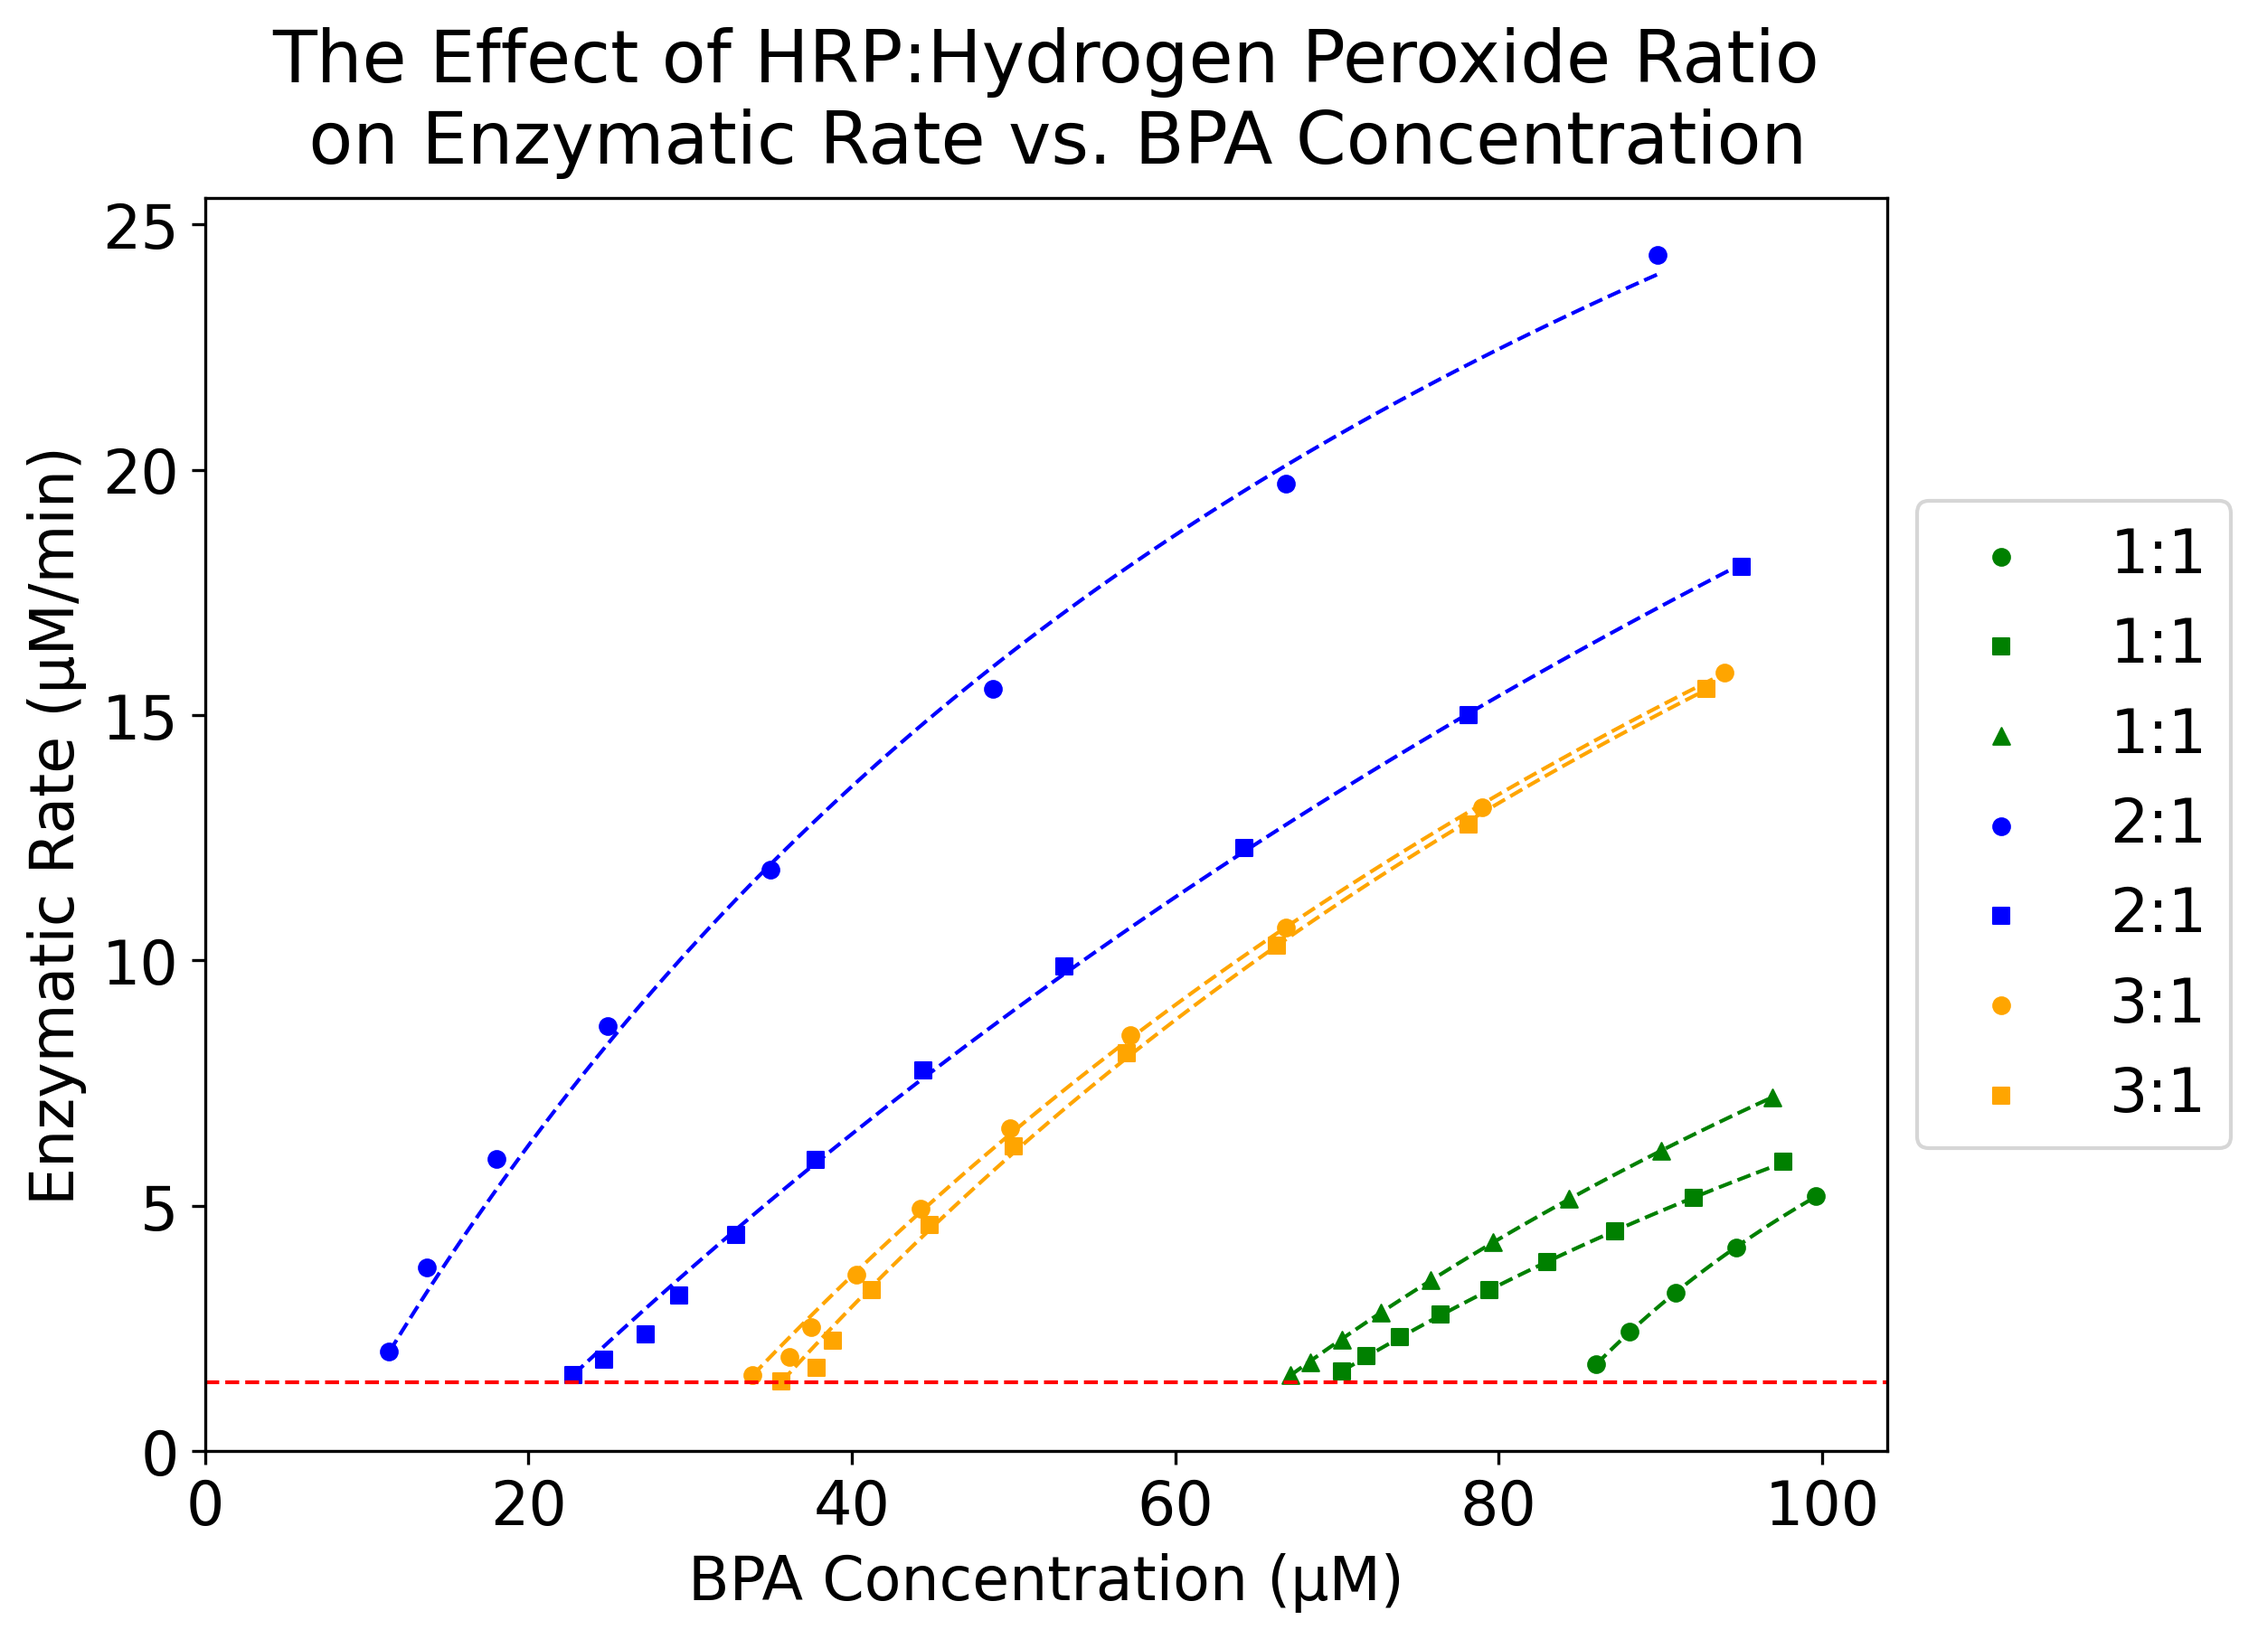
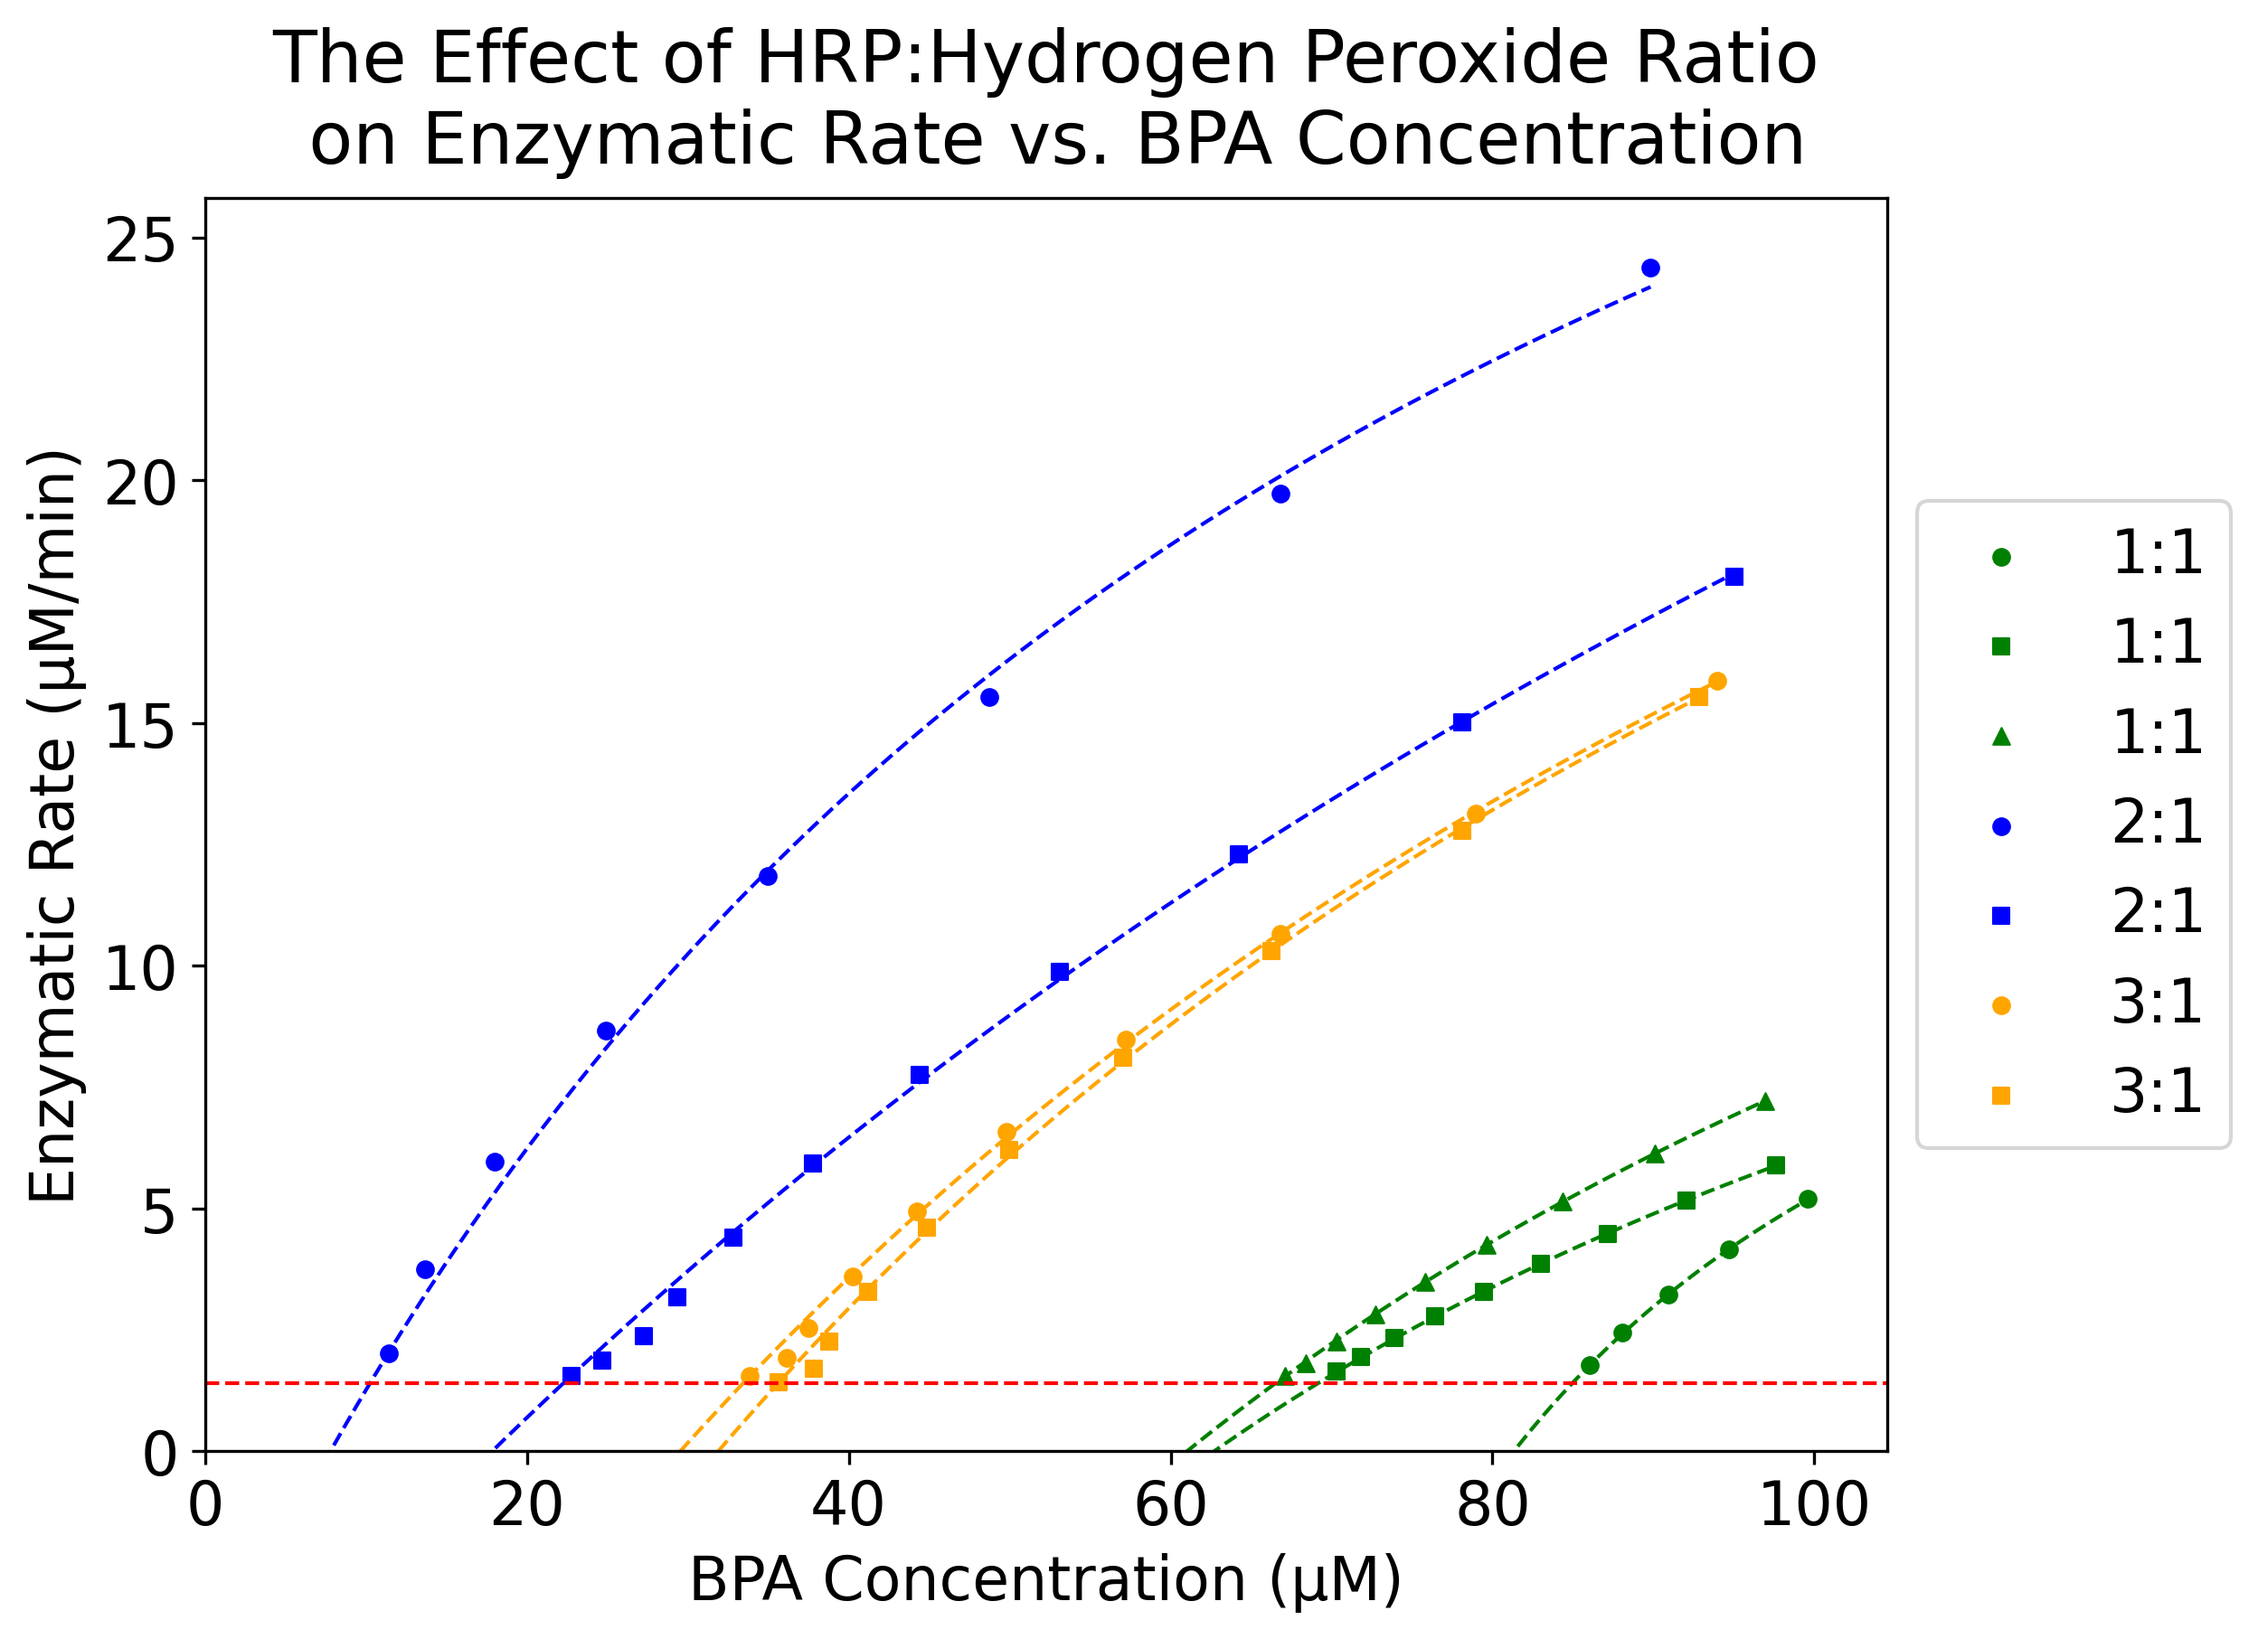
extended fit curves

diff --git a/functions/get_michaelis_menten_values.py b/functions/get_michaelis_menten_values.py
@@ -1,8 +1,27 @@
 from scipy.optimize import curve_fit
+import numpy as np
 
 # Define the Michaelis-Menten equation
 def michaelis_menten(S, Vmax, Km):
     return (Vmax * S) / (Km + S)
+
+def find_zero_rate_concentration(Vmax, Km, offset_conc, offset_rate, cutoff_rate=0.02):
+    # Define a range of substrate concentrations to evaluate the rate
+    concs_range = np.linspace(0, 1000, 10000)  # You can adjust the range or granularity if needed
+
+    # Apply the Michaelis-Menten equation to the concentration range
+    # rates = michaelis_menten(concs_range, Vmax, Km) + offset_rate
+
+    # Find the concentration where the rate first falls below the cutoff rate
+    for conc in range(1000):
+        conc = 100 - conc/10
+
+        rate = michaelis_menten(conc - offset_conc, Vmax, Km) + offset_rate
+
+        if rate <= 0:
+            return conc
+
+    return None  # If no concentration reaches the cutoff
 
 def get_michaelis_menten_values(trial, smoothed_df, rates_df, cutoff_rate=0.02):
     # find the rates that are before the cutoff rate
@@ -38,4 +57,7 @@ def get_michaelis_menten_values(trial, smoothed_df, rates_df, cutoff_rate=0.02):
     # popt contains the optimized values for Vmax and Km
     Vmax, Km = popt
 
-    return trial, Vmax, Km, offset_rate, offset_conc, max_time
+    # find the concentration that corresponds to zero rate
+    eq_conc = find_zero_rate_concentration(Vmax, Km, offset_conc, offset_rate, cutoff_rate)
+
+    return trial, Vmax, Km, offset_rate, offset_conc, max_time, eq_conc

diff --git a/functions/plot_rates_vs_conc_fit.py b/functions/plot_rates_vs_conc_fit.py
@@ -51,8 +51,8 @@ def plot_rates_vs_conc_fit(smoothed_df, rates_df, param_df, compound='phe', cuto
         color = ratio_to_color[trial.split(' ')[0]]
         marker = trial_to_marker[trial.split(' ')[2]]
 
-        # Generate fitted curves using Michaelis-Menten equation
-        conc_fit = np.linspace(min(smoothed_concs), max(smoothed_concs), 100)
+        # Generate fitted curves using Michaelis-Menten equation (minus 10 so that we can see the curve hit y=0)
+        conc_fit = np.linspace(min(smoothed_concs)-10, max(smoothed_concs), 100)
 
         # Apply offset concentration and rate
         rate_fit = michaelis_menten(conc_fit - offset_conc, Vmax, Km) + offset_rate
